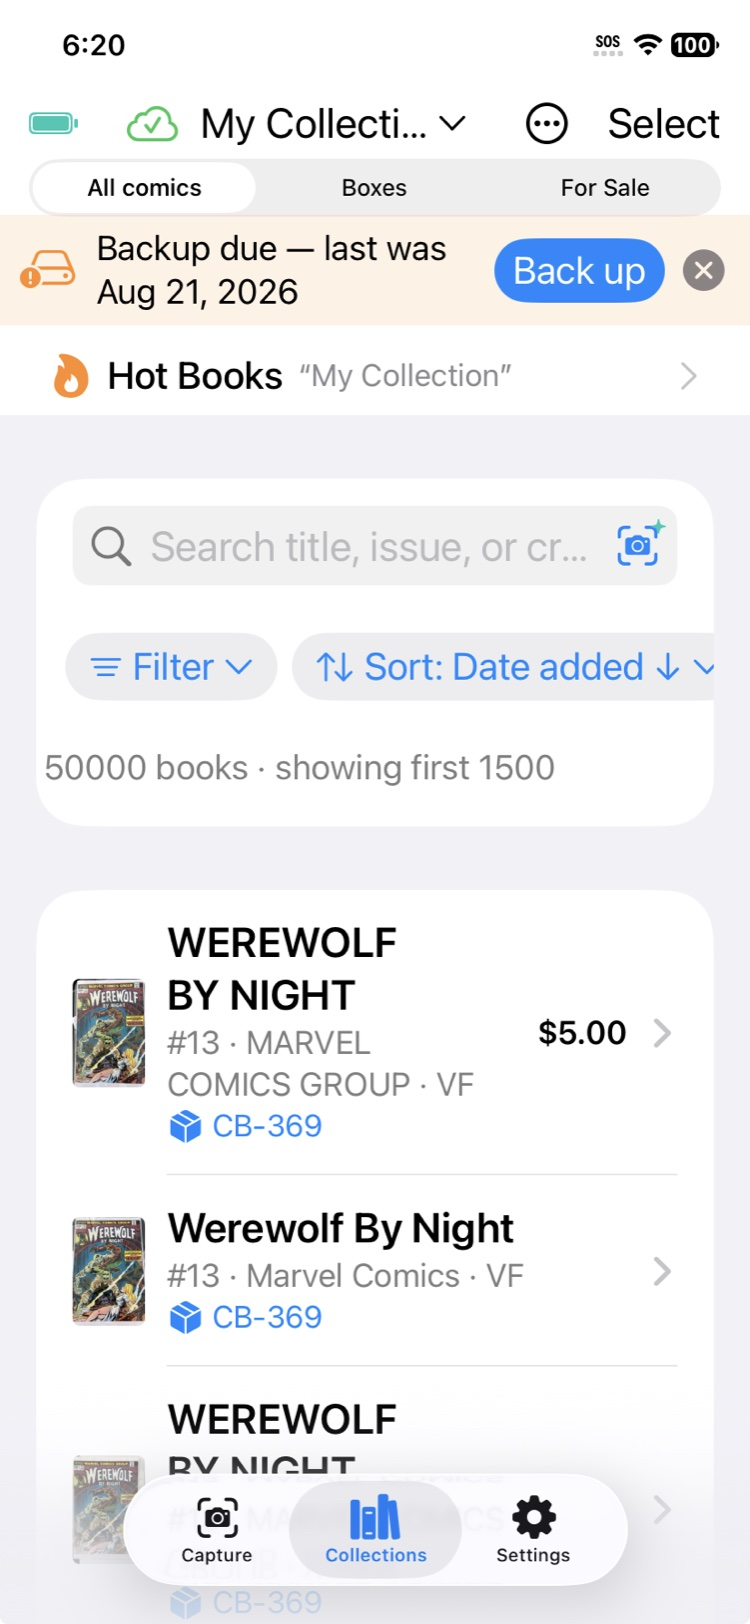
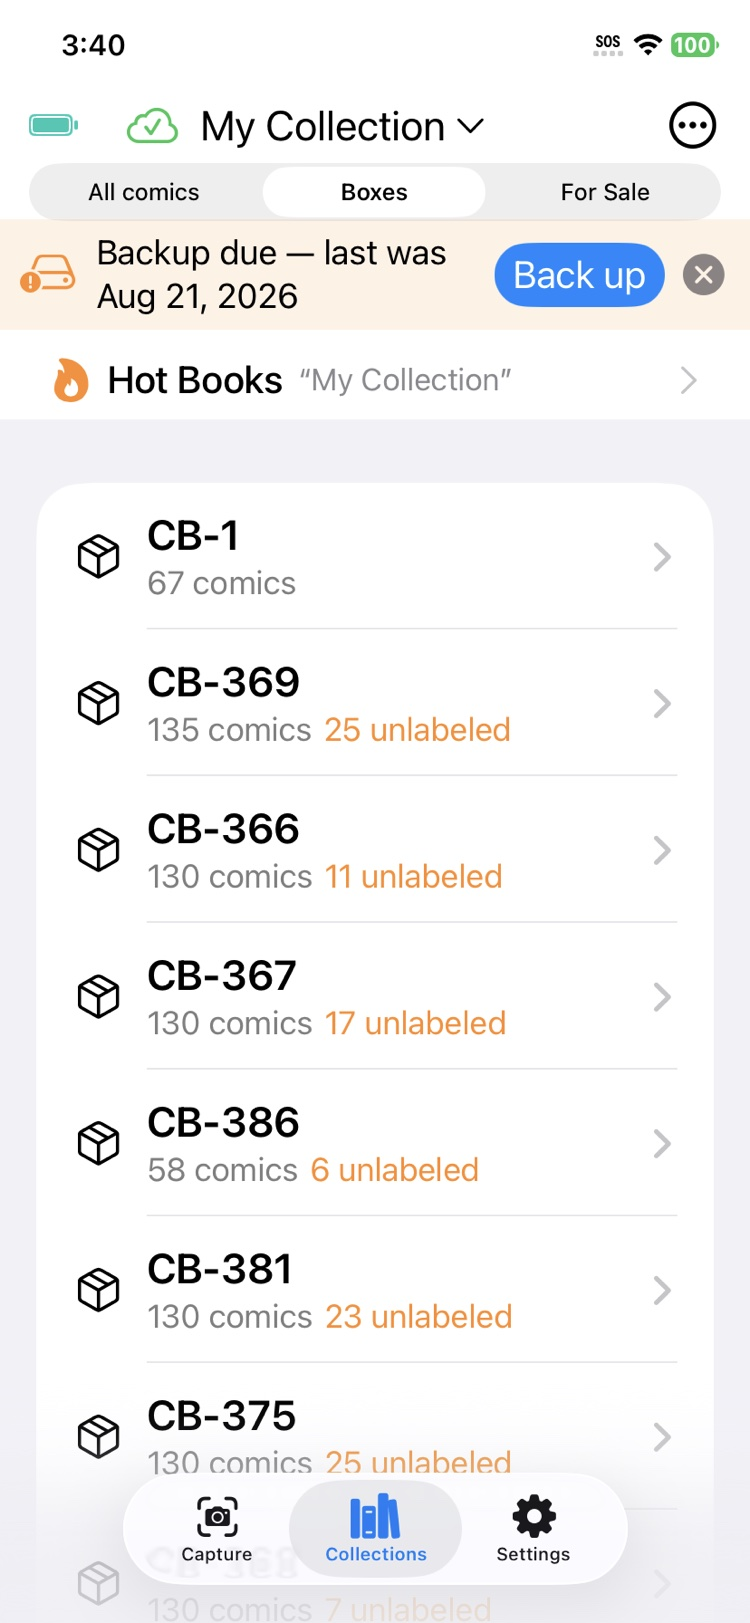
The backup reminder sits over a list of boxes now, not a wall of caps

diff --git a/howto/sharing-backup-restore.html b/howto/sharing-backup-restore.html
@@ -311,8 +311,8 @@
           &ldquo;later&rdquo; gets a date.</figcaption>
       </figure>
       <figure>
-        <img src="../images/backup-reminder.jpg" width="750" height="1624" loading="lazy"
-             alt="The Collections screen with an amber banner reading Backup due, last was Aug 21, 2026, and a Back up button, above a fifty-thousand-book library." />
+        <img src="../images/backup-reminder.jpg" width="750" height="1623" loading="lazy"
+             alt="The Collections screen on its Boxes tab, with an amber banner reading Backup due, last was Aug 21, 2026, and a Back up button, above a list of boxes and their unlabeled counts." />
         <figcaption>The reminder in the wild: backup due, one tap to make one.</figcaption>
       </figure>
     </div>

diff --git a/README.md b/README.md
@@ -123,7 +123,7 @@ delete the raw. One copy per picture.
 | `after-the-show-3.jpg` (was -6) | after-the-show scenario, accuracy how-to | **Done 2026-09-07** | |
 | `ballpark-run-1.jpg` | ballpark how-to | **Done 2026-09-07**: the whole loop reshot as -1 to -6 on CB-8; -2 retaken without the debug rows | |
 | `barcoding-1.jpg` | barcoding how-to | **Done 2026-09-07**: CB-11, with -2 and -3 reshot alongside (109 labels, four sheets) | |
-| `backup-reminder.jpg` | sharing how-to | "WEREWOLF BY NIGHT" above "Werewolf By Night", and a 50,000-book test library | Collections screen with the Backup due banner; a real collection behind it |
+| `backup-reminder.jpg` | sharing how-to | **Done 2026-09-07**: the banner over the Boxes tab, from the older phone (828 × 1792, resized to 750 × 1623) | |
 | `convention-table-2.jpg` | convention-table scenario | Kiosk cards read "THE TOMB OF DRACULA", publishers "MARVEL COMICS GROUP" and "MARVEL" | Desktop: re-export the kiosk (it also gained label QR codes on 2026-08-29), search "Tomb", screenshot |
 | `export-1.jpg` | sharing how-to | "KNIGHT · MARVEL COMICS GROUP" beside "Meta-morpho The Element Man" | Selection mode, three checked, menu open on Export 3 selected |
 | `voice-scan-1.jpg` | scanning how-to | Not stale, just 360 × 778: the weakest file on the site | Voice scan mid-session, New comic badge, a spoken comment transcribed under the book |
